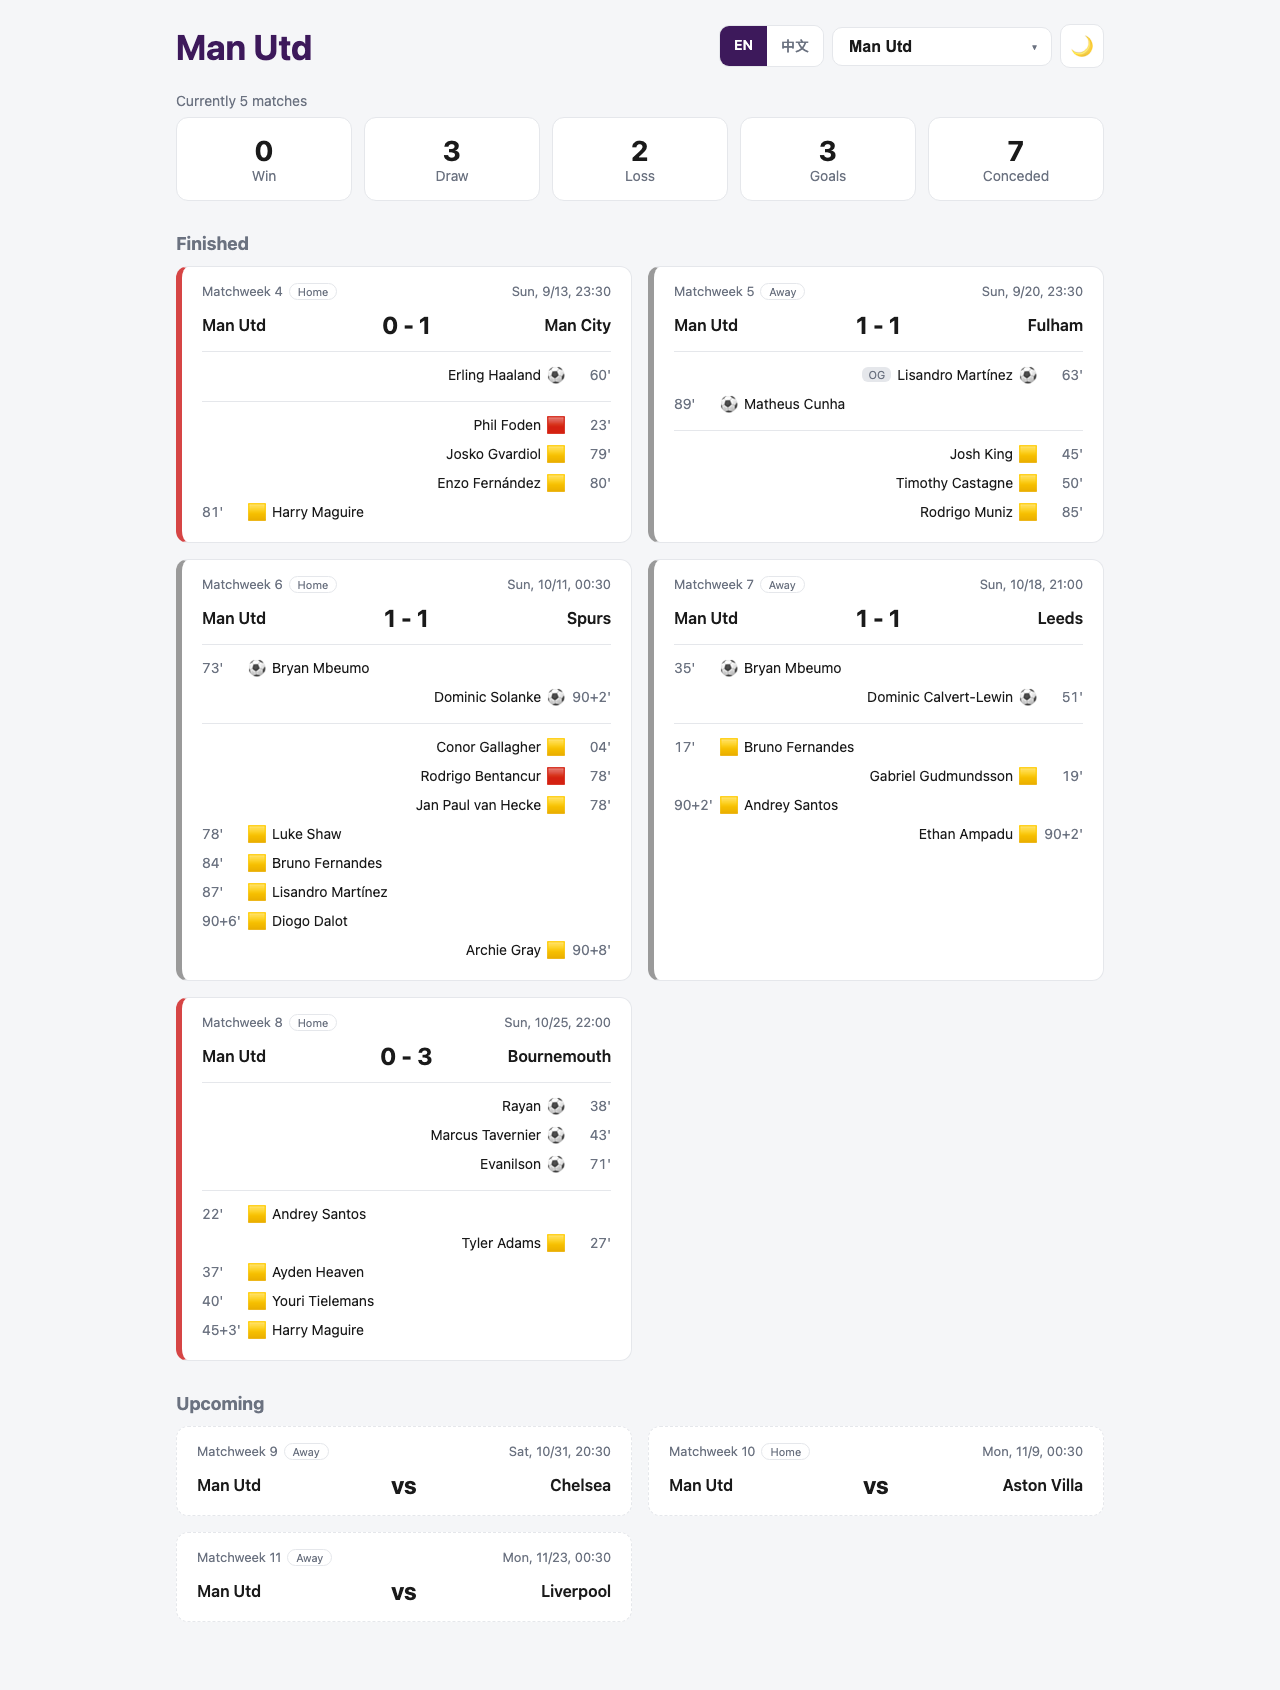
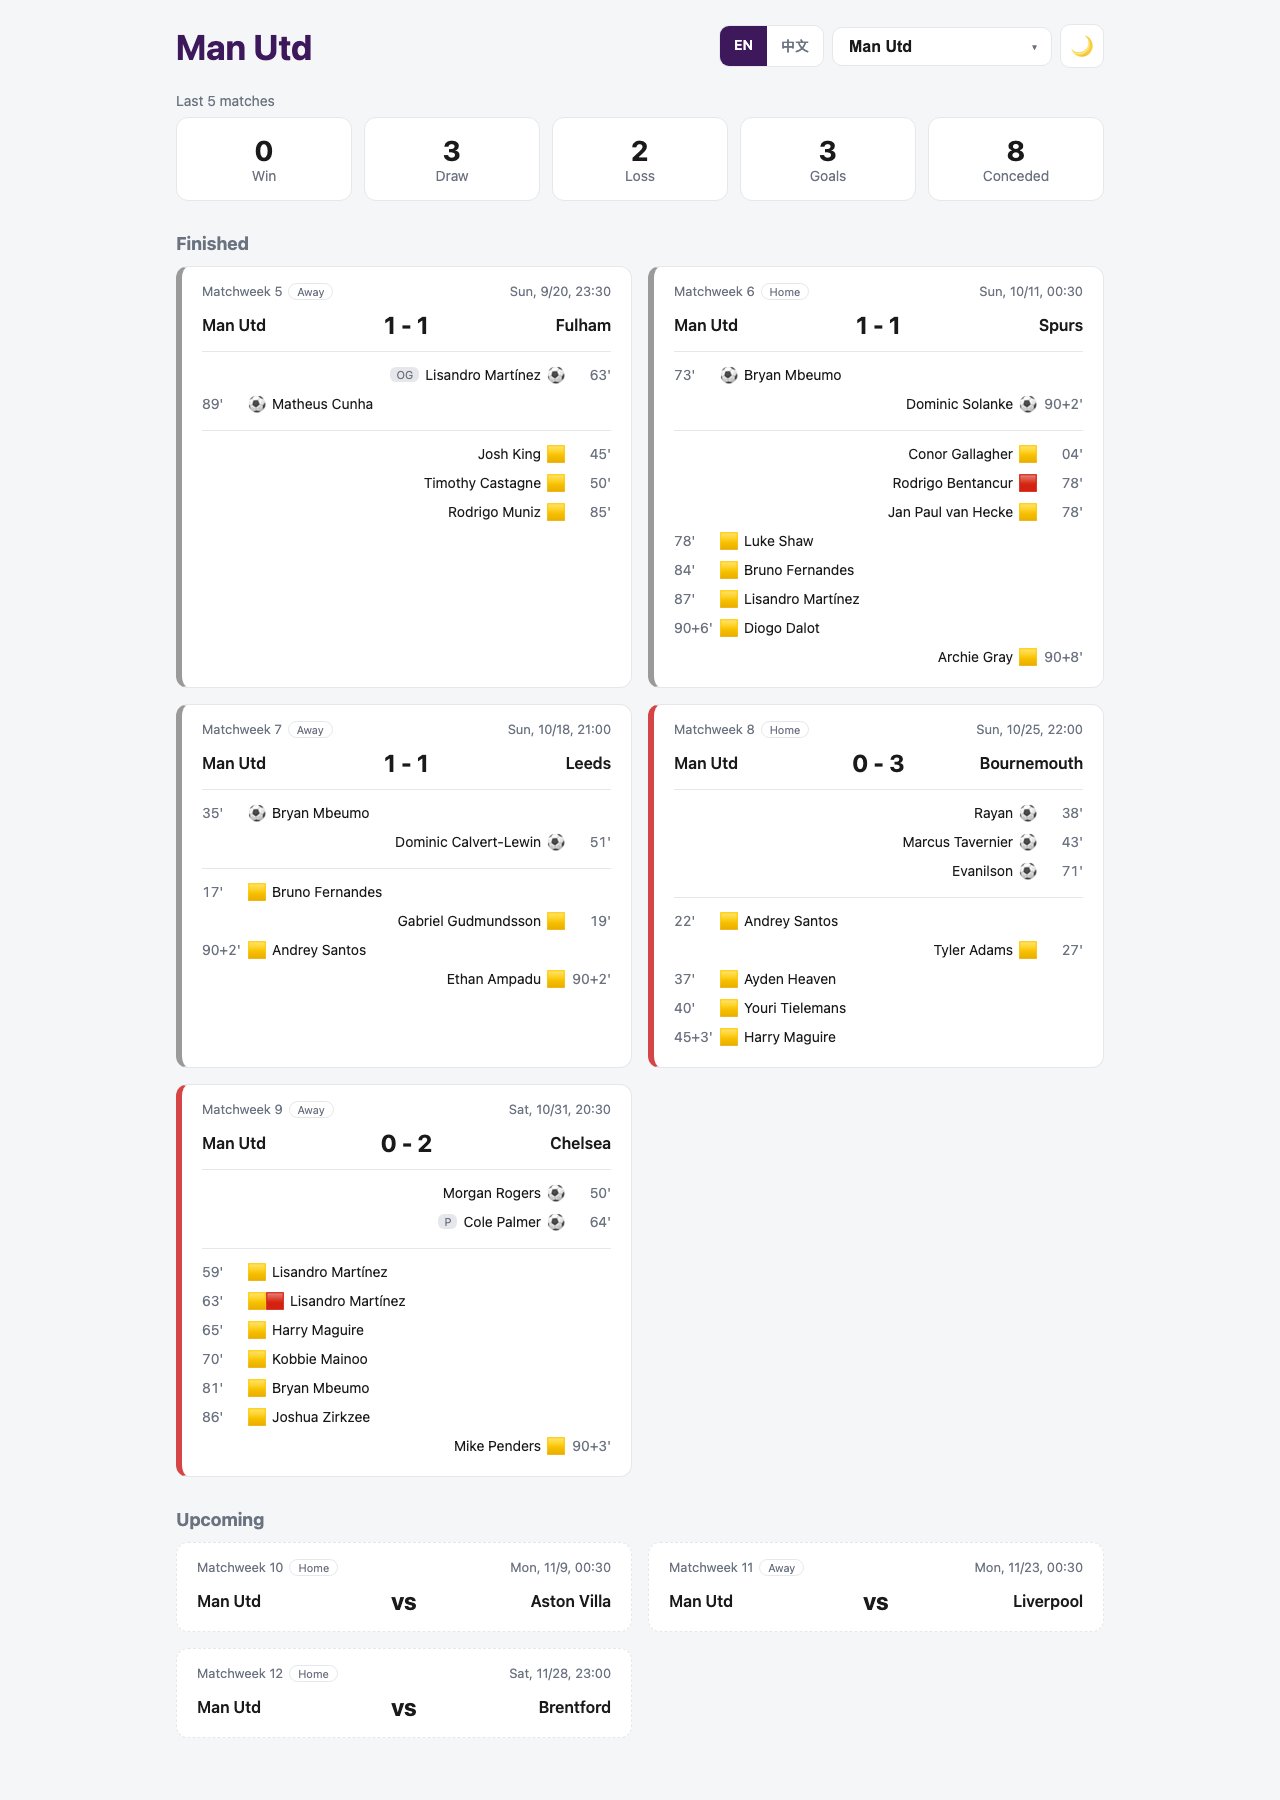
update details

diff --git a/frontend/src/i18n.js b/frontend/src/i18n.js
@@ -72,8 +72,25 @@ const TEAM_ZH = {
 
 const GROUND_ZH = {
   "Emirates Stadium" : "酋長球場",
+  "Villa Park":"維拉公園球場",
+  "Vitality Stadium":"活力球場",
+  "Gtech Community Stadium":"布倫福社區球場",
   "Anfield":"安菲爾德球場",
-
+  "The City Ground":"城市足球場",
+  "Etihad Stadium":"伊蒂哈德球場",
+  "American Express Stadium":"美國運通球場",
+  "Stamford Bridge":"史丹福橋球場",
+  "Hill Dickinson Stadium":"希爾迪金森球場",
+  "Tottenham Hotspur Stadium":"托特納姆熱刺球場",
+  "The MKM Stadium":"MKM 球場",
+  "Elland Road":"艾倫路球場",
+  "St. James' Park":"聖詹姆斯公園球場",
+  "Portman Road":"波特曼路球場",
+  "Craven Cottage":"克雷文農舍球場",
+  "Coventry Building Society Arena":"考文垂建築協會球場",
+  "Old Trafford":"老特拉福德球場",
+  "Selhurst Park":"塞爾赫斯特公園球場",
+  "Stadium of Light":"光明球場",
 }
 
 export const LanguageContext = createContext('en')

diff --git a/README.md b/README.md
@@ -8,13 +8,16 @@ This is a learning project: the backend is a FastAPI server that fetches live da
 
 ![Dashboard screenshot](docs/screenshot-en.png)
 
+![Match detail screenshot](docs/screenshot-detail-en.png)
+
 ## Features
 
-- **Team selector**: switch between all 20 Premier League clubs (default: Man Utd)
-- **English / Traditional Chinese**: `/` is the English page, `/zh` is the Traditional Chinese page, with an EN | 中文 switch in the header. Labels, dates and club names are translated (player names stay in English)
+- **Team selector**: switch between all 20 Premier League clubs (default: Man Utd). The team is kept in the URL (`/?team=Arsenal`), so it survives a refresh, works with the browser's back button and can be shared
+- **English / Traditional Chinese**: `/` is the English page, `/zh` is the Traditional Chinese page, with an EN | 中文 switch in the header. Labels, dates, club names and stadium names are translated (player names stay in English)
 - **Form summary**: wins / draws / losses, goals for and against over the last 5 matches
 - **Finished matches**: score, goals (time, scorer, own goal / penalty), yellow and red cards
 - **Upcoming matches**: opponent and kickoff time for the next 3 matches
+- **Match detail page**: click a card to see the score, stadium, attendance, goals, cards, formations, starting XI and substitutes. The back link returns to the team you were viewing
 - Kickoff times are shown in Taiwan time (UTC+8)
 - The selected team is always shown on the left, with a Home / Away label
 - Goals and cards line up under each team: the selected team's events on the left, the opponent's on the right, with OG / P tags for own goals and penalties
@@ -37,18 +40,23 @@ This is a learning project: the backend is a FastAPI server that fetches live da
 ```
 Eurpoe-football/
 ├── backend/
-│   ├── main.py                  # FastAPI app: /api/teams, /api/matches
-│   └── premier_league.py        # Fetches the Pulse API and builds the match summary
+│   ├── main.py                  # FastAPI app: /api/teams, /api/matches, /api/matches/{match_id}
+│   ├── premier_league.py        # Fetches the Pulse API and builds match summaries and details
+│   └── schemas.py               # Pydantic models for the API responses
+├── docs/                        # README screenshots
 └── frontend/
     └── src/
         ├── main.jsx             # Entry point, wraps the app in BrowserRouter
-        ├── App.jsx              # Routes: / (English), /zh (Chinese), 404
+        ├── App.jsx              # Routes: /, /zh, /match/:id, /zh/match/:id, 404
         ├── PremierLeague.jsx    # Main page: team selector, fetches data, splits finished / upcoming
         ├── Summary.jsx          # Form summary
-        ├── MatchCard.jsx        # Single match card
+        ├── MatchCard.jsx        # Single match card, links to the detail page
+        ├── MatchDetail.jsx      # Match detail page
+        ├── MatchEvents.jsx      # Goals and cards, shared by the card and the detail page
+        ├── Lineups.jsx          # Formations, starting XI and substitutes
         ├── ThemeToggle.jsx      # Light / dark theme button
         ├── LanguageSwitch.jsx   # EN | 中文 links
-        ├── i18n.js              # Translation dictionary, club names, LanguageContext and useLang()
+        ├── i18n.js              # Translation dictionary, club and stadium names, LanguageContext, useLang() and usePageLanguage()
         ├── matchUtils.js        # Shared helpers: home/away side, match result, time formatting
         └── index.css
 ```
@@ -60,6 +68,8 @@ Pulse API ──> backend (FastAPI, :8000) ──> frontend (React, :5173)
 ```
 
 When you pick a team, React calls `/api/matches?team=...`. The backend then fetches that team's fixtures and match details from the Pulse API and returns a JSON summary.
+
+When you open a match, React calls `/api/matches/{match_id}`, and the backend fetches that single match from the Pulse API.
 
 ## Getting Started
 
@@ -73,7 +83,7 @@ cd backend
 fastapi dev main.py
 ```
 
-The API runs at http://localhost:8000. Run it from inside `backend/` so `main.py` can import `premier_league.py`.
+The API runs at http://localhost:8000. Run it from inside `backend/` so `main.py` can import `premier_league.py` and `schemas.py`.
 
 **2. Start the frontend**
 
@@ -83,7 +93,7 @@ npm install
 npm run dev
 ```
 
-Open the URL shown in the terminal (usually http://localhost:5173 ). The Traditional Chinese page is at http://localhost:5173/zh .
+Open the URL shown in the terminal (usually http://localhost:5173 ). The Traditional Chinese page is at http://localhost:5173/zh . A match detail page is at `/match/{match_id}` or `/zh/match/{match_id}`, for example http://localhost:5173/match/128923 .
 
 ## API
 
@@ -91,6 +101,7 @@ Open the URL shown in the terminal (usually http://localhost:5173 ). The Traditi
 |---|---|
 | `GET /api/teams` | List of all 20 club names, sorted alphabetically |
 | `GET /api/matches?team=Arsenal` | Last 5 finished + next 3 upcoming matches for that team. `team` defaults to `Man Utd`. Returns 404 if the team is not found |
+| `GET /api/matches/{match_id}` | Full detail for one match. Returns 404 if the match is not found, or 422 if `match_id` is not an integer |
 
 Interactive API docs are available at http://localhost:8000/docs .
 
@@ -98,6 +109,7 @@ Interactive API docs are available at http://localhost:8000/docs .
 
 ```json
 {
+  "id": 128960,
   "gameweek": 4,
   "kickoff": "Sun 13 Sep 2026, 16:30 BST",
   "kickoff_ms": 1789313400000,
@@ -114,6 +126,35 @@ Interactive API docs are available at http://localhost:8000/docs .
 - `goals.type`: `G` goal, `O` own goal, `P` penalty
 - `cards.card`: `Y` yellow, `R` red, `YR` second yellow (red)
 
+### Match detail format
+
+`GET /api/matches/{match_id}` returns every field above plus `ground`, `attendance` and `lineups` (shortened here):
+
+```json
+{
+  "id": 128923,
+  "gameweek": 1,
+  "status": "C",
+  "home": { "team": "Arsenal", "score": 3 },
+  "away": { "team": "Coventry", "score": 0 },
+  "goals": [{ "time": "15'00", "team": "Arsenal", "player": "Kai Havertz", "type": "G" }],
+  "cards": [{ "time": "27'00", "team": "Coventry", "player": "Caleb Yirenkyi", "card": "Y" }],
+  "ground": "Emirates Stadium",
+  "attendance": 60098,
+  "lineups": [
+    {
+      "team": "Arsenal",
+      "formation": "4-2-3-1",
+      "starters": [{ "name": "David Raya", "number": 1, "position": "G", "captain": false }],
+      "substitutes": [{ "name": "Kepa Arrizabalaga", "number": 13, "position": "G", "captain": false }]
+    }
+  ]
+}
+```
+
+- `position`: `G` goalkeeper, `D` defender, `M` midfielder, `F` forward
+- `lineups` is empty and `attendance` is `null` for upcoming matches
+
 ## Roadmap
 
 - [x] Switch the backend to FastAPI and have the frontend call the API
@@ -121,6 +162,11 @@ Interactive API docs are available at http://localhost:8000/docs .
 - [x] Improve the layout and styling
 - [x] Light / dark theme toggle
 - [x] Traditional Chinese page
+- [x] Keep the selected team in the URL
+- [x] Match detail page with lineups
+- [ ] Faster loading: async requests and caching
+- [ ] Score predictions with login and a leaderboard
+- [ ] Automated tests
 
 ## Notes
 

diff --git a/README.zh-TW.md b/README.zh-TW.md
@@ -8,13 +8,16 @@
 
 ![Dashboard 截圖](docs/screenshot-zh.png)
 
+![比賽詳情頁截圖](docs/screenshot-detail-zh.png)
+
 ## 功能
 
-- **選擇球隊**：可以切換 20 支英超球隊（預設是 Man Utd）
-- **英文 / 繁體中文**：`/` 是英文版、`/zh` 是繁體中文版，標題列有 EN | 中文 切換。介面文字、日期和球隊名稱都會翻譯（球員名字維持英文）
+- **選擇球隊**：可以切換 20 支英超球隊（預設是 Man Utd）。球隊會保留在網址上（`/?team=Arsenal`），重新整理不會跑掉，也能用瀏覽器的上一頁，或直接分享網址
+- **英文 / 繁體中文**：`/` 是英文版、`/zh` 是繁體中文版，標題列有 EN | 中文 切換。介面文字、日期、球隊和球場名稱都會翻譯（球員名字維持英文）
 - **戰績總覽**：最近 5 場的勝 / 和 / 負、進球、失球
 - **已完賽**：比分、進球（時間、球員、烏龍球 / 點球）、紅黃牌
 - **即將進行**：接下來 3 場的對手和開賽時間
+- **比賽詳情頁**：點卡片可以看比分、球場、觀眾數、進球、紅黃牌、陣型、先發和替補，返回時會回到原本選的球隊
 - 開賽時間以台灣時間（UTC+8）顯示
 - 選擇的球隊固定顯示在左邊，並標示 Home / Away
 - 進球和紅黃牌對齊各自的球隊：選擇的球隊靠左、對手靠右，烏龍球和點球有 OG / P 標籤
@@ -37,18 +40,23 @@
 ```
 Eurpoe-football/
 ├── backend/
-│   ├── main.py                  # FastAPI：/api/teams、/api/matches
-│   └── premier_league.py        # 抓 Pulse API，整理成比賽摘要
+│   ├── main.py                  # FastAPI：/api/teams、/api/matches、/api/matches/{match_id}
+│   ├── premier_league.py        # 抓 Pulse API，整理成比賽摘要和單場詳情
+│   └── schemas.py               # API 回傳格式的 Pydantic model
+├── docs/                        # README 截圖
 └── frontend/
     └── src/
         ├── main.jsx             # 進入點，用 BrowserRouter 包住整個 App
-        ├── App.jsx              # 路由：/（英文）、/zh（中文）、404
+        ├── App.jsx              # 路由：/、/zh、/match/:id、/zh/match/:id、404
         ├── PremierLeague.jsx    # 主頁面：選擇球隊、fetch 資料、分成已完賽 / 即將進行
         ├── Summary.jsx          # 戰績總覽
-        ├── MatchCard.jsx        # 單場比賽卡片
+        ├── MatchCard.jsx        # 單場比賽卡片，點擊進入詳情頁
+        ├── MatchDetail.jsx      # 比賽詳情頁
+        ├── MatchEvents.jsx      # 進球和紅黃牌，卡片和詳情頁共用
+        ├── Lineups.jsx          # 陣型、先發和替補
         ├── ThemeToggle.jsx      # 淺色 / 深色主題按鈕
         ├── LanguageSwitch.jsx   # EN | 中文 切換連結
-        ├── i18n.js              # 翻譯字典、球隊中文名、LanguageContext 和 useLang()
+        ├── i18n.js              # 翻譯字典、球隊和球場中文名、LanguageContext、useLang() 和 usePageLanguage()
         ├── matchUtils.js        # 共用函式：判斷主客場、勝負、時間格式
         └── index.css
 ```
@@ -60,6 +68,8 @@ Pulse API ──> 後端（FastAPI，:8000）──> 前端（React，:5173）
 ```
 
 選擇球隊後，React 會呼叫 `/api/matches?team=...`，後端再去 Pulse API 抓這支球隊的賽程和比賽細節，整理成 JSON 回傳。
+
+打開單場比賽時，React 會呼叫 `/api/matches/{match_id}`，後端再去 Pulse API 抓這場比賽的資料。
 
 ## 如何執行
 
@@ -73,7 +83,7 @@ cd backend
 fastapi dev main.py
 ```
 
-API 會在 http://localhost:8000 執行。要在 `backend/` 裡面執行，`main.py` 才 import 得到 `premier_league.py`。
+API 會在 http://localhost:8000 執行。要在 `backend/` 裡面執行，`main.py` 才 import 得到 `premier_league.py` 和 `schemas.py`。
 
 **2. 啟動前端**
 
@@ -83,7 +93,7 @@ npm install
 npm run dev
 ```
 
-打開終端機顯示的網址（通常是 http://localhost:5173 ）。繁體中文版在 http://localhost:5173/zh 。
+打開終端機顯示的網址（通常是 http://localhost:5173 ）。繁體中文版在 http://localhost:5173/zh 。比賽詳情頁是 `/match/{match_id}` 或 `/zh/match/{match_id}`，例如 http://localhost:5173/zh/match/128923 。
 
 ## API
 
@@ -91,6 +101,7 @@ npm run dev
 |---|---|
 | `GET /api/teams` | 20 支球隊的名稱，依字母排序 |
 | `GET /api/matches?team=Arsenal` | 該球隊最近 5 場已完賽 + 接下來 3 場。`team` 預設是 `Man Utd`，找不到球隊時回傳 404 |
+| `GET /api/matches/{match_id}` | 單場比賽的完整資料。找不到比賽時回傳 404，`match_id` 不是整數時回傳 422 |
 
 互動式 API 文件：http://localhost:8000/docs
 
@@ -98,6 +109,7 @@ npm run dev
 
 ```json
 {
+  "id": 128960,
   "gameweek": 4,
   "kickoff": "Sun 13 Sep 2026, 16:30 BST",
   "kickoff_ms": 1789313400000,
@@ -114,6 +126,35 @@ npm run dev
 - `goals.type`：`G` 一般進球、`O` 烏龍球、`P` 點球
 - `cards.card`：`Y` 黃牌、`R` 紅牌、`YR` 兩黃變一紅
 
+### 比賽詳情格式
+
+`GET /api/matches/{match_id}` 會回傳上面所有欄位，再加上 `ground`、`attendance` 和 `lineups`（以下有節錄）：
+
+```json
+{
+  "id": 128923,
+  "gameweek": 1,
+  "status": "C",
+  "home": { "team": "Arsenal", "score": 3 },
+  "away": { "team": "Coventry", "score": 0 },
+  "goals": [{ "time": "15'00", "team": "Arsenal", "player": "Kai Havertz", "type": "G" }],
+  "cards": [{ "time": "27'00", "team": "Coventry", "player": "Caleb Yirenkyi", "card": "Y" }],
+  "ground": "Emirates Stadium",
+  "attendance": 60098,
+  "lineups": [
+    {
+      "team": "Arsenal",
+      "formation": "4-2-3-1",
+      "starters": [{ "name": "David Raya", "number": 1, "position": "G", "captain": false }],
+      "substitutes": [{ "name": "Kepa Arrizabalaga", "number": 13, "position": "G", "captain": false }]
+    }
+  ]
+}
+```
+
+- `position`：`G` 門將、`D` 後衛、`M` 中場、`F` 前鋒
+- 未開賽的比賽，`lineups` 是空陣列，`attendance` 是 `null`
+
 ## 接下來的計畫
 
 - [x] 後端改成 FastAPI，前端改成呼叫 API
@@ -121,6 +162,11 @@ npm run dev
 - [x] 美化排版
 - [x] 淺色 / 深色主題切換
 - [x] 繁體中文版頁面
+- [x] 把選擇的球隊保留在網址上
+- [x] 比賽詳情頁和陣容
+- [ ] 加快載入速度：非同步請求和快取
+- [ ] 比分預測：登入和排行榜
+- [ ] 自動化測試
 
 ## 備註
 
